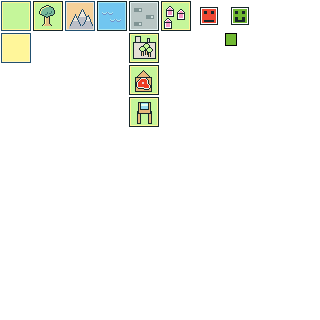
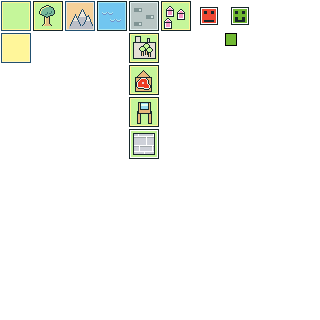
Wall stuff done

Changed region(s): [[0.4062, 0.4062, 0.5, 0.5]]

diff --git a/src/world.ts b/src/world.ts
@@ -1,5 +1,6 @@
 type BuildingName = "Road"
                   | "Farm"
+                  | "Wall"
                   | "Village"
                   | "Town"
                   | "City"
@@ -21,7 +22,7 @@ type Building = {
   hideWhenCantBuy   
               ?: boolean;
   resourceName?: string;
-  spritesheet  : [number, number];
+  spritesheet ?: [number, number];
 
   harvester    : boolean;
   cost         : { wood?: number; meat?: number; gold?: number; }
@@ -152,6 +153,19 @@ const Buildings: Building[] = [
     cost       : { wood: 10 },
     requirement: {
       on: ["grass"],
+    },
+  },
+
+  {
+    name       : "Wall",
+    hotkey     : "1",
+    vision     : 2,
+    harvester  : false,
+    spritesheet: [4, 4],
+    description: "Keeps enemies out.",
+    cost       : { wood: 1 },
+    requirement: {
+      on: ["grass", "snow"],
     },
   },
 ];
@@ -959,11 +973,13 @@ class BuildingGraphic extends PIXI.Sprite implements Updatable {
       this.showPop = true;
     }
 
-    this.texture = TextureCache.GetCachedSpritesheetTexture(
-      "macro", 
-      building.spritesheet[0],
-      building.spritesheet[1]
-    ).texture;
+    if (building.spritesheet) {
+      this.texture = TextureCache.GetCachedSpritesheetTexture(
+        "macro", 
+        building.spritesheet[0],
+        building.spritesheet[1]
+      ).texture;
+    }
 
     if (this.showPop) {
       this.addChild(this.pop2 = new PIXI.Text("0", {

diff --git a/src/gamemap.ts b/src/gamemap.ts
@@ -126,6 +126,7 @@ class GameMap extends PIXI.Graphics implements Updatable {
       water  : boolean;
       unknown: boolean;
       unseen : boolean;
+      wall   : boolean;
     }
   ): { x: number, y: number }[] | undefined {
     const hash = (props: { x: number, y: number }) => `${ props.x },${ props.y }`;
@@ -158,11 +159,15 @@ class GameMap extends PIXI.Graphics implements Updatable {
         if (!World.InBoundsRel(next.x, next.y)) { continue; }
         if (parent[hash(next)]) { continue; }
 
-        if (blockers.water   && this.world.map[next.x][next.y].terrain   === "water") { continue; }
-        if (blockers.unknown && this.world.map[next.x][next.y].fogStatus === "unknown") { continue; }
+        const nextCell = this.world.map[next.x][next.y]
+
+        if (blockers.water   && nextCell.terrain   === "water") { continue; }
+        if (blockers.unknown && nextCell.fogStatus === "unknown") { continue; }
+        if (blockers.wall    && nextCell.building && 
+            nextCell.building.building.name === "Wall") { continue; }
         if (blockers.unseen  && 
           !Constants.DEBUG.ALWAYS_FAST_TRAVEL &&
-          this.world.map[next.x][next.y].fogStatus === "seen"
+          nextCell.fogStatus === "seen"
         ) { continue; }
 
         queue.push(next);

diff --git a/src/enemy.ts b/src/enemy.ts
@@ -67,7 +67,7 @@ class MacroEnemy extends PIXI.Sprite implements Updatable {
     // try to find building to destroy
 
     let buildingTargets = this.state.map.world.getCells()
-      .filter(cell => cell.building)
+      .filter(cell => cell.building && cell.building.building.name !== "Wall")
       .filter(cell => Util.ManhattanDistance(
         cell,
         { xIndex: this.worldX, yIndex: this.worldY }
@@ -103,6 +103,7 @@ class MacroEnemy extends PIXI.Sprite implements Updatable {
         { x: this.worldX, y: this.worldY },
         { x: buildingTarget.xIndex, y: buildingTarget.yIndex }, {
           water  : true ,
+          wall   : true,
           unknown: false, // enemies op
           unseen : false,
         }
@@ -127,6 +128,10 @@ class MacroEnemy extends PIXI.Sprite implements Updatable {
       const cell = state.map.world.map[x][y];
 
       if (cell.terrain === "water") {
+        return false;
+      }
+
+      if (cell.building && cell.building.building.name === "Wall") {
         return false;
       }
 

diff --git a/src/toolbar.tsx b/src/toolbar.tsx
@@ -195,7 +195,10 @@ class Toolbar extends React.Component<{}, ToolbarState> {
         }
       }
 
-      if (b.name !== "Road" && !hasRoadNeighbor) {
+      if ((
+        b.name !== "Road" && 
+        b.name !== "Wall"
+      ) && !hasRoadNeighbor) {
         obj.canBuild = false;
         obj.whyNot   = "I need to build next to another road, or my hometown."
 
@@ -203,6 +206,13 @@ class Toolbar extends React.Component<{}, ToolbarState> {
       }
 
       if (b.name === "Road" && !hasAnyNeighbor) {
+        obj.canBuild = false;
+        obj.whyNot   = "I need to build next to another building, or my hometown."
+
+        continue;
+      }
+
+      if (b.name === "Wall" && !hasAnyNeighbor) {
         obj.canBuild = false;
         obj.whyNot   = "I need to build next to another building, or my hometown."
 
